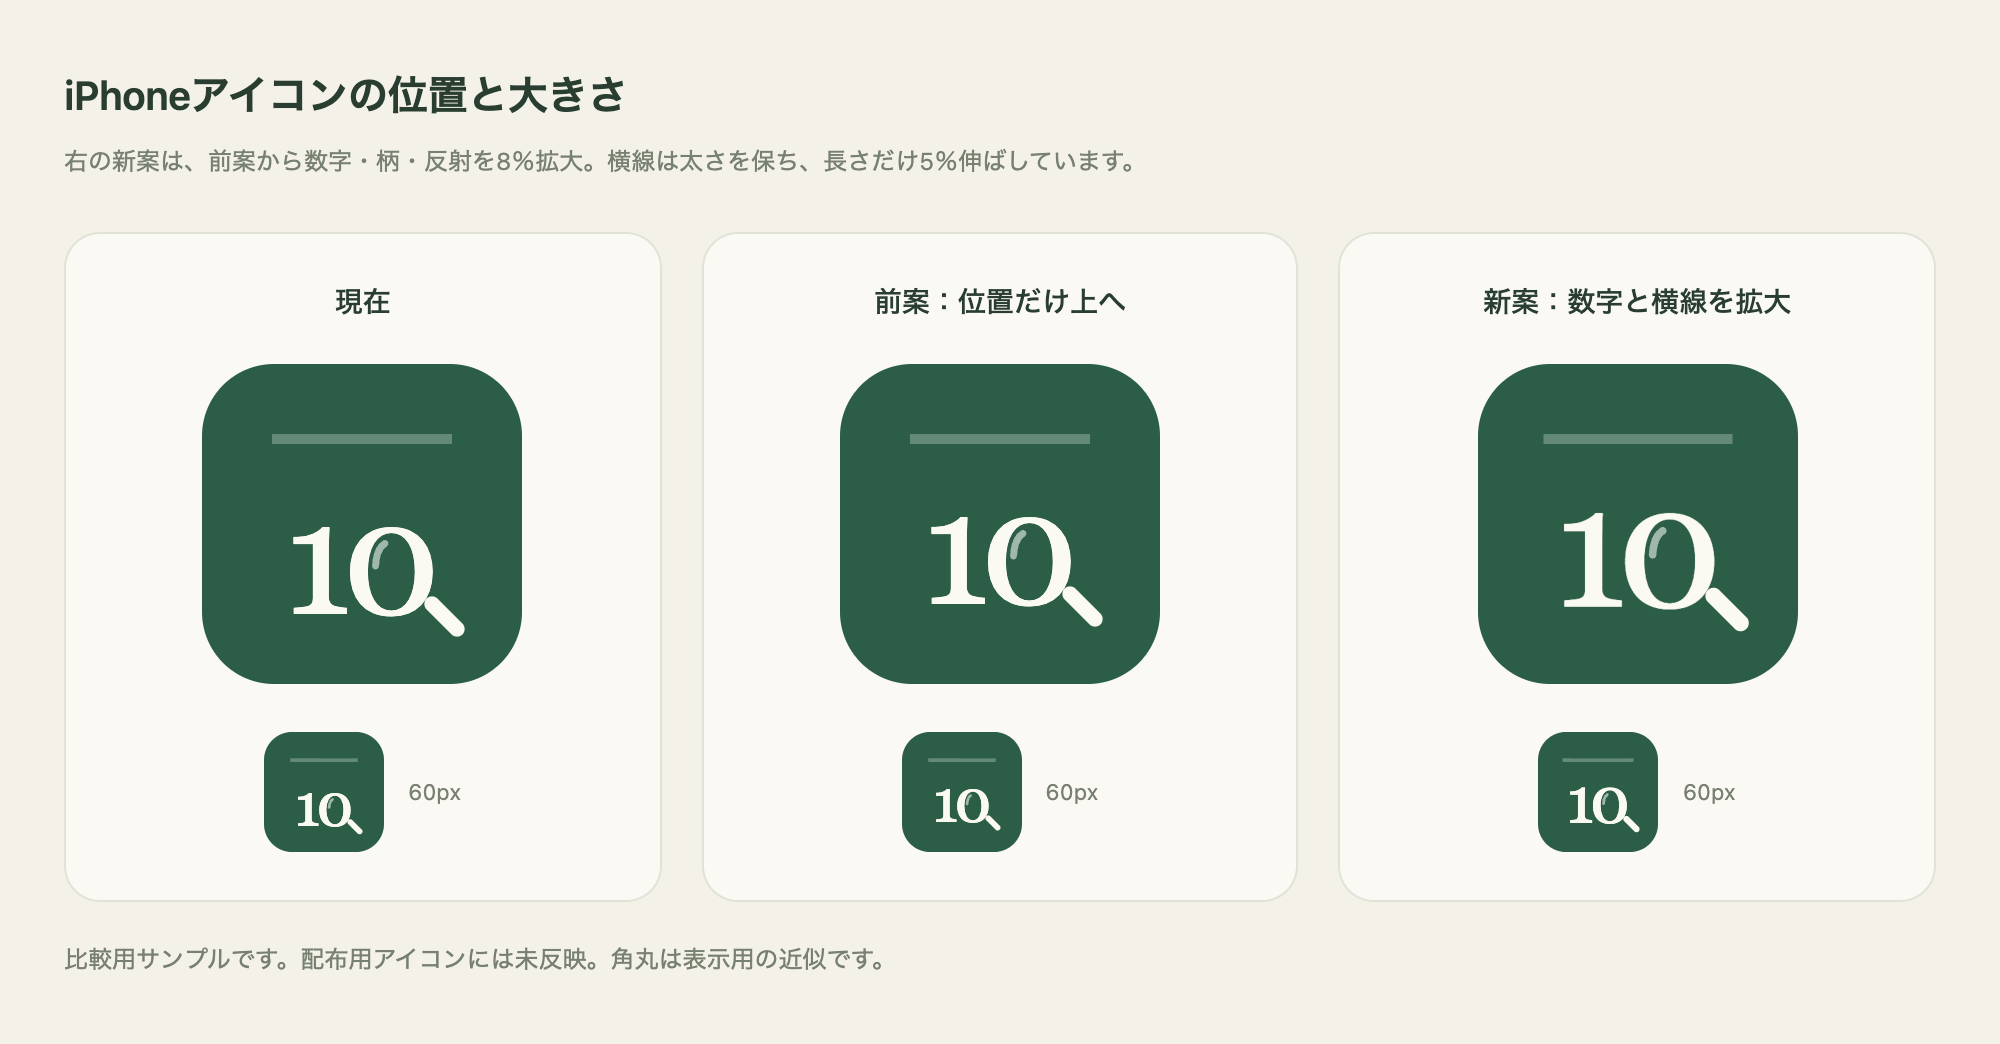
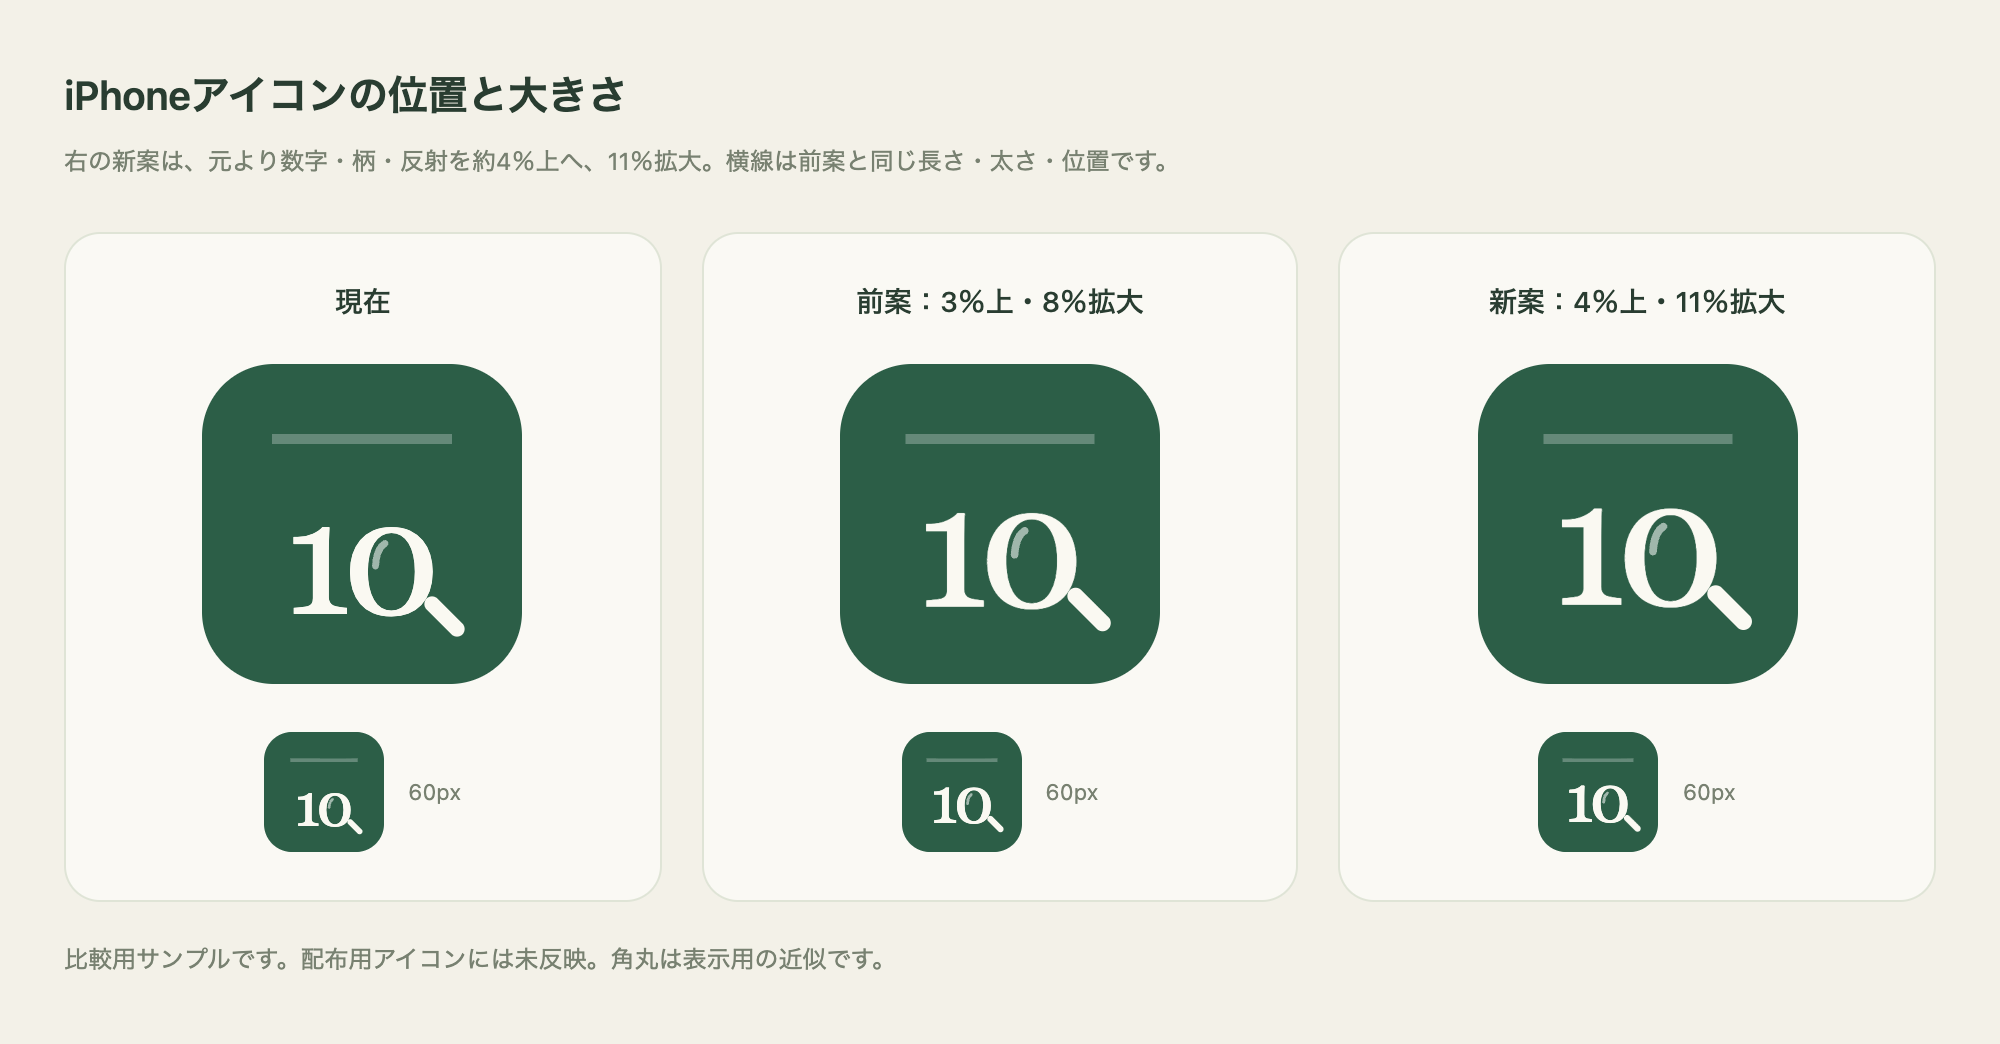
docs(design): 数字を少し上げて拡大したアイコン案を調整

diff --git a/docs/design/ios-icon-position.html b/docs/design/ios-icon-position.html
@@ -1,6 +1,6 @@
 <!doctype html><html lang="ja"><meta charset="utf-8"><meta name="viewport" content="width=device-width,initial-scale=1"><title>iPhoneアイコンの位置と大きさ</title><style>
 *{box-sizing:border-box}body{margin:0;background:#f3f1e8;color:#293d31;font-family:-apple-system,BlinkMacSystemFont,"Hiragino Sans",sans-serif}main{max-width:1000px;margin:auto;padding:32px}h1{font-size:20px;font-weight:600;margin:0 0 8px}p{font-size:12px;line-height:1.8;color:#788171;margin:0}.grid{display:grid;grid-template-columns:repeat(3,minmax(0,1fr));gap:20px;margin:24px 0 18px}article{background:#faf9f4;border:1px solid #dfe4d6;border-radius:18px;text-align:center;padding:24px 14px}h2{font-size:14px;font-weight:500;margin:0 0 20px}svg{display:block;width:160px;height:160px;border-radius:36px;margin:0 auto}.small{margin-top:24px;display:flex;align-items:center;justify-content:center;gap:12px}.small svg{width:60px;height:60px;border-radius:14px;margin:0}.small span{font-size:11px;color:#788171}@media(max-width:760px){.grid{grid-template-columns:1fr}}@media(max-width:480px){main{padding:20px 12px}.grid{gap:10px}svg{width:128px;height:128px;border-radius:29px}article{padding:20px 8px}}
-</style><main><h1>iPhoneアイコンの位置と大きさ</h1><p>右の新案は、前案から数字・柄・反射を8％拡大。横線は太さを保ち、長さだけ5％伸ばしています。</p><div class="grid"><article><h2>現在</h2><svg xmlns="http://www.w3.org/2000/svg" viewBox="0 0 32 32" role="img" aria-label="現在"><rect width="32" height="32" fill="#2c5e47"/>
+</style><main><h1>iPhoneアイコンの位置と大きさ</h1><p>右の新案は、元より数字・柄・反射を約4％上へ、11％拡大。横線は前案と同じ長さ・太さ・位置です。</p><div class="grid"><article><h2>現在</h2><svg xmlns="http://www.w3.org/2000/svg" viewBox="0 0 32 32" role="img" aria-label="現在"><rect width="32" height="32" fill="#2c5e47"/>
   <rect x="1" width="30" height="32" rx="7" fill="#2c5e47"/>
   <path d="M7 7.5h18" stroke="#ffffff" stroke-opacity=".27"/>
   <g transform="translate(0 0)"><text x="15.5" y="25" text-anchor="middle" fill="#faf9f2" font-family="Georgia,serif" font-size="16" letter-spacing="-1">10</text>
@@ -12,28 +12,28 @@
   <g transform="translate(0 0)"><text x="15.5" y="25" text-anchor="middle" fill="#faf9f2" font-family="Georgia,serif" font-size="16" letter-spacing="-1">10</text>
   <path d="M23 24l2.5 2.5" stroke="#faf9f2" stroke-width="1.53" stroke-linecap="round"/>
   <path d="M17.35 20.2C17.4 19.15 17.7 18.3 18.3 17.95" fill="none" stroke="#ffffff" stroke-opacity=".55" stroke-width=".7" stroke-linecap="round"/>
-</g></svg><span>60px</span></div></article><article><h2>前案：位置だけ上へ</h2><svg xmlns="http://www.w3.org/2000/svg" viewBox="0 0 32 32" role="img" aria-label="前案：位置だけ上へ"><rect width="32" height="32" fill="#2c5e47"/>
-  <rect x="1" width="30" height="32" rx="7" fill="#2c5e47"/>
-  <path d="M7 7.5h18" stroke="#ffffff" stroke-opacity=".27"/>
-  <g transform="translate(0 -1)"><text x="15.5" y="25" text-anchor="middle" fill="#faf9f2" font-family="Georgia,serif" font-size="16" letter-spacing="-1">10</text>
-  <path d="M23 24l2.5 2.5" stroke="#faf9f2" stroke-width="1.53" stroke-linecap="round"/>
-  <path d="M17.35 20.2C17.4 19.15 17.7 18.3 18.3 17.95" fill="none" stroke="#ffffff" stroke-opacity=".55" stroke-width=".7" stroke-linecap="round"/>
-</g></svg><div class="small"><svg xmlns="http://www.w3.org/2000/svg" viewBox="0 0 32 32" role="img" aria-label="前案：位置だけ上へ"><rect width="32" height="32" fill="#2c5e47"/>
-  <rect x="1" width="30" height="32" rx="7" fill="#2c5e47"/>
-  <path d="M7 7.5h18" stroke="#ffffff" stroke-opacity=".27"/>
-  <g transform="translate(0 -1)"><text x="15.5" y="25" text-anchor="middle" fill="#faf9f2" font-family="Georgia,serif" font-size="16" letter-spacing="-1">10</text>
-  <path d="M23 24l2.5 2.5" stroke="#faf9f2" stroke-width="1.53" stroke-linecap="round"/>
-  <path d="M17.35 20.2C17.4 19.15 17.7 18.3 18.3 17.95" fill="none" stroke="#ffffff" stroke-opacity=".55" stroke-width=".7" stroke-linecap="round"/>
-</g></svg><span>60px</span></div></article><article><h2>新案：数字と横線を拡大</h2><svg xmlns="http://www.w3.org/2000/svg" viewBox="0 0 32 32" role="img" aria-label="新案：数字と横線を拡大"><rect width="32" height="32" fill="#2c5e47"/>
+</g></svg><span>60px</span></div></article><article><h2>前案：3％上・8％拡大</h2><svg xmlns="http://www.w3.org/2000/svg" viewBox="0 0 32 32" role="img" aria-label="前案：3％上・8％拡大"><rect width="32" height="32" fill="#2c5e47"/>
   <rect x="1" width="30" height="32" rx="7" fill="#2c5e47"/>
   <path d="M6.55 7.5h18.9" stroke="#ffffff" stroke-opacity=".27"/>
   <g transform="translate(0 -1) translate(16 21.5) scale(1.08) translate(-16 -21.5)"><text x="15.5" y="25" text-anchor="middle" fill="#faf9f2" font-family="Georgia,serif" font-size="16" letter-spacing="-1">10</text>
   <path d="M23 24l2.5 2.5" stroke="#faf9f2" stroke-width="1.53" stroke-linecap="round"/>
   <path d="M17.35 20.2C17.4 19.15 17.7 18.3 18.3 17.95" fill="none" stroke="#ffffff" stroke-opacity=".55" stroke-width=".7" stroke-linecap="round"/>
-</g></svg><div class="small"><svg xmlns="http://www.w3.org/2000/svg" viewBox="0 0 32 32" role="img" aria-label="新案：数字と横線を拡大"><rect width="32" height="32" fill="#2c5e47"/>
+</g></svg><div class="small"><svg xmlns="http://www.w3.org/2000/svg" viewBox="0 0 32 32" role="img" aria-label="前案：3％上・8％拡大"><rect width="32" height="32" fill="#2c5e47"/>
   <rect x="1" width="30" height="32" rx="7" fill="#2c5e47"/>
   <path d="M6.55 7.5h18.9" stroke="#ffffff" stroke-opacity=".27"/>
   <g transform="translate(0 -1) translate(16 21.5) scale(1.08) translate(-16 -21.5)"><text x="15.5" y="25" text-anchor="middle" fill="#faf9f2" font-family="Georgia,serif" font-size="16" letter-spacing="-1">10</text>
+  <path d="M23 24l2.5 2.5" stroke="#faf9f2" stroke-width="1.53" stroke-linecap="round"/>
+  <path d="M17.35 20.2C17.4 19.15 17.7 18.3 18.3 17.95" fill="none" stroke="#ffffff" stroke-opacity=".55" stroke-width=".7" stroke-linecap="round"/>
+</g></svg><span>60px</span></div></article><article><h2>新案：4％上・11％拡大</h2><svg xmlns="http://www.w3.org/2000/svg" viewBox="0 0 32 32" role="img" aria-label="新案：4％上・11％拡大"><rect width="32" height="32" fill="#2c5e47"/>
+  <rect x="1" width="30" height="32" rx="7" fill="#2c5e47"/>
+  <path d="M6.55 7.5h18.9" stroke="#ffffff" stroke-opacity=".27"/>
+  <g transform="translate(0 -1.3) translate(16 21.5) scale(1.11) translate(-16 -21.5)"><text x="15.5" y="25" text-anchor="middle" fill="#faf9f2" font-family="Georgia,serif" font-size="16" letter-spacing="-1">10</text>
+  <path d="M23 24l2.5 2.5" stroke="#faf9f2" stroke-width="1.53" stroke-linecap="round"/>
+  <path d="M17.35 20.2C17.4 19.15 17.7 18.3 18.3 17.95" fill="none" stroke="#ffffff" stroke-opacity=".55" stroke-width=".7" stroke-linecap="round"/>
+</g></svg><div class="small"><svg xmlns="http://www.w3.org/2000/svg" viewBox="0 0 32 32" role="img" aria-label="新案：4％上・11％拡大"><rect width="32" height="32" fill="#2c5e47"/>
+  <rect x="1" width="30" height="32" rx="7" fill="#2c5e47"/>
+  <path d="M6.55 7.5h18.9" stroke="#ffffff" stroke-opacity=".27"/>
+  <g transform="translate(0 -1.3) translate(16 21.5) scale(1.11) translate(-16 -21.5)"><text x="15.5" y="25" text-anchor="middle" fill="#faf9f2" font-family="Georgia,serif" font-size="16" letter-spacing="-1">10</text>
   <path d="M23 24l2.5 2.5" stroke="#faf9f2" stroke-width="1.53" stroke-linecap="round"/>
   <path d="M17.35 20.2C17.4 19.15 17.7 18.3 18.3 17.95" fill="none" stroke="#ffffff" stroke-opacity=".55" stroke-width=".7" stroke-linecap="round"/>
 </g></svg><span>60px</span></div></article></div><p>比較用サンプルです。配布用アイコンには未反映。角丸は表示用の近似です。</p></main></html>
